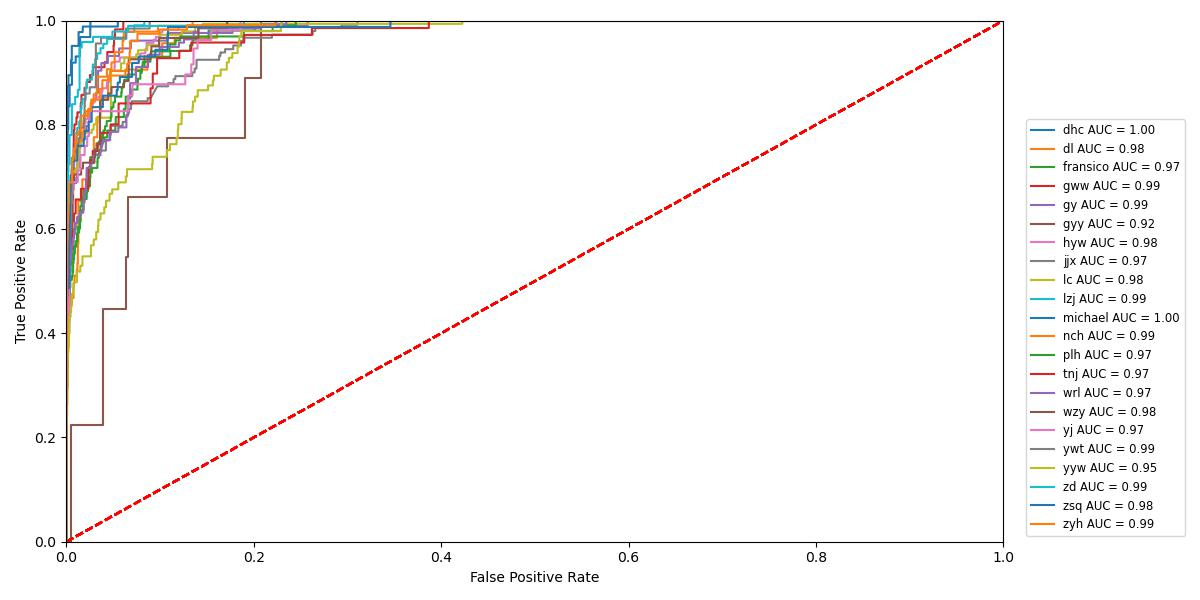
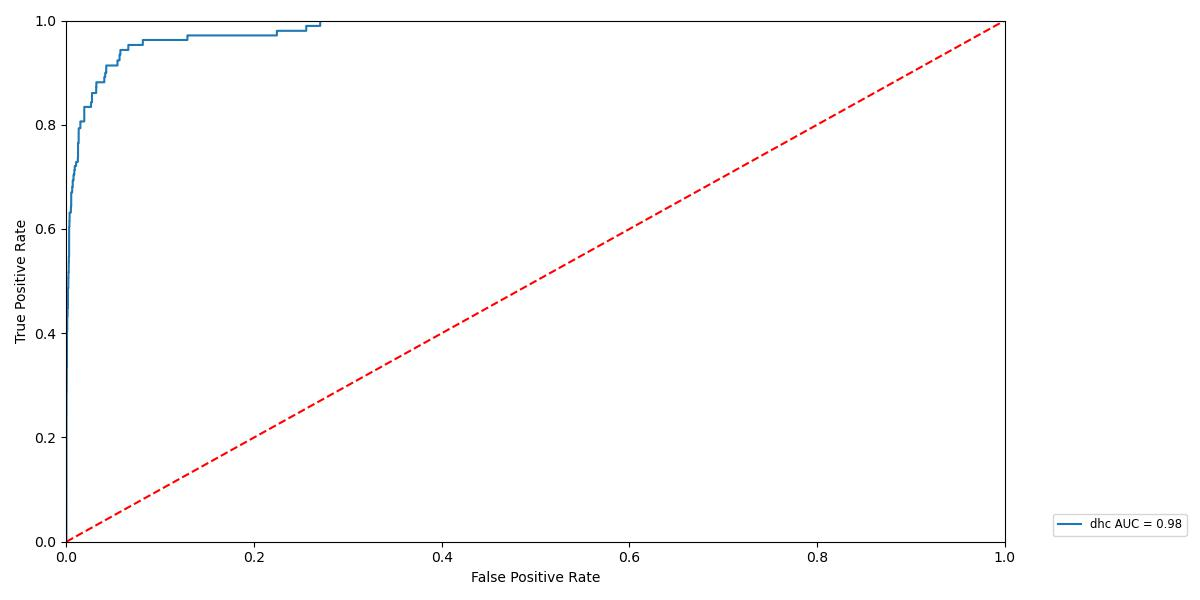
Update

diff --git a/run_lstm.py b/run_lstm.py
@@ -6,9 +6,11 @@ from matplotlib import pyplot as plt
 from random import random
 import argparse
 from sklearn.model_selection import train_test_split
+import random
 import tensorflow as tf
 from tensorflow.keras.metrics import AUC
 
+import keras
 from keras.models import Sequential
 from keras.layers import LSTM
 from keras.layers import SimpleRNN
@@ -30,12 +32,19 @@ if args.device == "cpu":
 
 data_path = "./merge"
 
-n_frames = 10
+n_frames = 5
 data_per_condition = 1200
 trials = 1
 
+test_user_num = 18
+
+test_user_list = [[i] for i in os.listdir(data_path)]
+test_user_list = [random.sample(os.listdir(data_path), test_user_num) for i in range(24)]
+
 Xs = {}
 ys = {}
+rXs = {}
+rys = {}
 # fea = ["emd_ani_sal", "labDelta", "area", "center_x", "center_y"]
 # fea = ["emd_ani_sal", "labDelta", "area"]
 fea = ["emd_ani_sal", "labDelta"]
@@ -66,25 +75,25 @@ for user in os.listdir(data_path):
                 temp_y.append(y[i])
                 t_x.append(X[i - n_frames: i])
                 t_y.append(y[i])
-        # df = pd.DataFrame({"img": temp_x, "label": temp_y})
-        # class_0 = df[df['label'] == 0]
-        # class_1 = df[df['label'] == 1]
-        # class_count_0, class_count_1 = df['label'].value_counts()
-        # class_0_resample = class_0.sample(data_per_condition, replace=True)
-        # class_1_resample = class_1.sample(data_per_condition, replace=True)
-        # temp.append(class_0_resample)
-        # temp.append(class_1_resample)
+        df = pd.DataFrame({"img": temp_x, "label": temp_y})
+        class_0 = df[df['label'] == 0]
+        class_1 = df[df['label'] == 1]
+        class_count_0, class_count_1 = df['label'].value_counts()
+        class_0_resample = class_0.sample(data_per_condition, replace=True)
+        class_1_resample = class_1.sample(data_per_condition, replace=True)
+        temp.append(class_0_resample)
+        temp.append(class_1_resample)
 
-    df = pd.DataFrame({"img": t_x, "label": t_y})
-    class_0 = df[df['label'] == 0]
-    class_1 = df[df['label'] == 1]
-    class_count_0, class_count_1 = df['label'].value_counts()
-    class_0_resample = class_0.sample(data_per_condition * 12, replace=True)
-    class_1_resample = class_1.sample(data_per_condition * 12, replace=True)
+    # df = pd.DataFrame({"img": t_x, "label": t_y})
+    # class_0 = df[df['label'] == 0]
+    # class_1 = df[df['label'] == 1]
+    # class_count_0, class_count_1 = df['label'].value_counts()
+    # class_0_resample = class_0.sample(data_per_condition * 12, replace=True)
+    # class_1_resample = class_1.sample(data_per_condition * 12, replace=True)
 
-    test = pd.concat([class_0_resample, class_1_resample], axis=0)
+    # test = pd.concat([class_0_resample, class_1_resample], axis=0)
     
-    # test = pd.concat(temp, axis=0)
+    test = pd.concat(temp, axis=0)
 
     X = test['img'].tolist()
     y = test['label'].tolist()
@@ -95,6 +104,15 @@ for user in os.listdir(data_path):
     Xs[user] = X
     ys[user] = y
 
+    # X = df['img'].tolist()
+    # y = df['label'].tolist()
+
+    # X = np.array(X)
+    # y = np.array(y)
+
+    # rXs[user] = X
+    # rys[user] = y
+
 def test_trials(test_user, trial_number):
     temp_x = []
     temp_y = []
@@ -104,50 +122,53 @@ def test_trials(test_user, trial_number):
     trial_cnt = 0
     last_y = 0
     train_set = []
-    for condition in os.listdir(os.path.join(data_path, test_user)):
-        temp_x_train = []
-        temp_y_train = []
-        trial_cnt = 0
-        last_y = 0
-        flag = False if trial_number == 0 else True
-        # print(user, condition)
-        df = pd.read_csv(os.path.join(data_path, test_user, condition))
-        # df = pd.read_csv("./data/{}/data_{}_{}_{}.csv".format(user, condition.split("_")[1], condition.split("_")[2], user))
-        idx = df["index"].tolist()
-        X = df[fea].values
-        # X = df["emd_ani_sal"].tolist()
-        # X = df["emd_ani_gaze"].tolist()
-        y = df["label"].tolist()
-
-        if len(X) == 0:
-            print(test_user, condition)
+    for user in os.listdir(data_path):
+        if user not in test_user:
             continue
+        for condition in os.listdir(os.path.join(data_path, user)):
+            temp_x_train = []
+            temp_y_train = []
+            trial_cnt = 0
+            last_y = 0
+            flag = False if trial_number == 0 else True
+            # print(user, condition)
+            df = pd.read_csv(os.path.join(data_path, user, condition))
+            # df = pd.read_csv("./data/{}/data_{}_{}_{}.csv".format(user, condition.split("_")[1], condition.split("_")[2], user))
+            idx = df["index"].tolist()
+            X = df[fea].values
+            # X = df["emd_ani_sal"].tolist()
+            # X = df["emd_ani_gaze"].tolist()
+            y = df["label"].tolist()
 
-        for i in range(n_frames, len(idx)):
-            if idx[i] - idx[i - n_frames] == n_frames:
-                if flag:
-                    temp_x_train.append(X[i - n_frames: i])
-                    temp_y_train.append(y[i])
-                else:
-                    temp_x.append(X[i - n_frames: i])
-                    temp_y.append(y[i])
-                if y[i] == 1 and last_y == 0:
-                    trial_cnt += 1
-                if trial_cnt == trial_number:
-                    flag = False
-                last_y = y[i]
-        
-        if len(temp_x_train) > 0:
-            df = pd.DataFrame({"img": temp_x_train, "label": temp_y_train})
-            class_0 = df[df['label'] == 0]
-            class_1 = df[df['label'] == 1]
-            class_count_0, class_count_1 = df['label'].value_counts()
+            if len(X) == 0:
+                print(user, condition)
+                continue
 
-            if len(class_0['img'].to_list()) * len(class_1['img'].to_list()) > 0:
-                class_0_resample = class_0.sample(int(data_per_condition / 1), replace=True)
-                class_1_resample = class_1.sample(int(data_per_condition / 1), replace=True)
-                train_set.append(class_0_resample)
-                train_set.append(class_1_resample)
+            for i in range(n_frames, len(idx)):
+                if idx[i] - idx[i - n_frames] == n_frames:
+                    if flag:
+                        temp_x_train.append(X[i - n_frames: i])
+                        temp_y_train.append(y[i])
+                    else:
+                        temp_x.append(X[i - n_frames: i])
+                        temp_y.append(y[i])
+                    if y[i] == 1 and last_y == 0:
+                        trial_cnt += 1
+                    if trial_cnt == trial_number:
+                        flag = False
+                    last_y = y[i]
+            
+            if len(temp_x_train) > 0:
+                df = pd.DataFrame({"img": temp_x_train, "label": temp_y_train})
+                class_0 = df[df['label'] == 0]
+                class_1 = df[df['label'] == 1]
+                class_count_0, class_count_1 = df['label'].value_counts()
+
+                if len(class_0['img'].to_list()) * len(class_1['img'].to_list()) > 0:
+                    class_0_resample = class_0.sample(int(data_per_condition / 1), replace=True)
+                    class_1_resample = class_1.sample(int(data_per_condition / 1), replace=True)
+                    train_set.append(class_0_resample)
+                    train_set.append(class_1_resample)
     
     if len(train_set) > 0:
         test = pd.concat(train_set, axis=0)
@@ -160,7 +181,7 @@ def test_trials(test_user, trial_number):
 if args.command == "train":
     fig = plt.figure(figsize=(12, 6))
     aucs = []
-    for test_user in os.listdir(data_path):
+    for test_user in test_user_list:
         # if os.path.isfile("./saved_model/{}_{}_{}.h5".format(test_user, args.activation, args.initial)):
         #     continue
         print(test_user)
@@ -169,7 +190,13 @@ if args.command == "train":
         X_test = []
         y_test = []
         for user in os.listdir(data_path):
-            if user != test_user and user in Xs.keys():
+            if user in test_user and user in Xs.keys():
+                pass
+                # X_test.extend(rXs[user])
+                # y_test.extend(rys[user])
+                # X_train.extend(Xs[user])
+                # y_train.extend(ys[user])
+            elif user in Xs.keys():
                 X_train.extend(Xs[user])
                 y_train.extend(ys[user])
         
@@ -183,8 +210,8 @@ if args.command == "train":
             X_train_temp, y_train_temp, X_test, y_test = test_trials(test_user, 0)
         elif args.initial == "add":
             X_train_temp, y_train_temp, X_test, y_test = test_trials(test_user, trials)
-        # X_train.extend(X_train_temp)
-        # y_train.extend(y_train_temp)
+        # X_train.extend(X_test)
+        # y_train.extend(y_test)
         # X_test = []
         # y_test = []
         # for i in range(len(Xs[test_user])):
@@ -197,15 +224,15 @@ if args.command == "train":
         
         X_train = np.array(X_train).reshape(-1, n_frames, len(fea))
         y_train = np.array(y_train).reshape(-1, 1, 1)
-        X_train_temp = np.array(X_train_temp).reshape(-1, n_frames, len(fea))
-        y_train_temp = np.array(y_train_temp).reshape(-1, 1, 1)
+        # X_train_temp = np.array(X_train_temp).reshape(-1, n_frames, len(fea))
+        # y_train_temp = np.array(y_train_temp).reshape(-1, 1, 1)
         X_test = np.array(X_test).reshape(-1, n_frames, len(fea))
         y_test = np.array(y_test).reshape(-1, 1, 1)
 
         print(X_train.shape)
         print(y_train.shape)
-        print(X_train_temp.shape)
-        print(y_train_temp.shape)
+        # print(X_train_temp.shape)
+        # print(y_train_temp.shape)
         print(X_test.shape)
         print(y_test.shape)
 
@@ -213,15 +240,17 @@ if args.command == "train":
         X_train, X_val, y_train, y_val = train_test_split(X_train, y_train, test_size=0.2)
 
         model = Sequential()
-        # model.add(Conv1D(filters=64, kernel_size=5, padding='same', activation=args.activation))
-        # model.add(MaxPooling1D(pool_size=4))
-        model.add(LSTM(64, return_sequences=True, input_shape=(X_train.shape[1], X_train.shape[2])))
+        model.add(Conv1D(filters=64, kernel_size=5, padding='same', activation=args.activation))
+        model.add(MaxPooling1D(pool_size=5))
+        model.add(LSTM(128, return_sequences=True, input_shape=(X_train.shape[1], X_train.shape[2])))
         model.add(Dropout(0.2))
         model.add(LSTM(32))
         model.add(Dropout(0.2))
-        model.add(Dense(1))
-        model.compile(optimizer='adam', loss='binary_crossentropy', metrics=["accuracy"])
-        model.fit(X_train, y_train, epochs=10, batch_size=64, validation_data=(X_val, y_val))
+        model.add(Dense(1, activation="sigmoid"))
+        # model.compile(optimizer='adam', loss='mean_squared_error', metrics=["accuracy", tf.keras.metrics.AUC()]) 
+        opt = keras.optimizers.Adam(1e-4)
+        model.compile(optimizer=opt, loss='binary_crossentropy', metrics=["accuracy", "AUC"])
+        model.fit(X_train, y_train, epochs=100, batch_size=128, validation_data=(X_val, y_val))
 
         y_pred = model.predict(X_test).ravel()
         y_test = y_test.flatten()
@@ -249,7 +278,7 @@ if args.command == "train":
         # plt.show()
         fig.suptitle("Average AUC = %0.2f" % np.mean(np.array(aucs)), fontsize=16)
         fig.tight_layout()
-        plt.savefig("./lstm_results/leave_{}_trials_out_balanced_{}_{}_new_data_merge_{}.jpg".format(trials, args.activation, args.initial, n_frames))
+        plt.savefig("./lstm_results/leave_{}_users_out_balanced_{}_{}_new_data_merge_{}.jpg".format(test_user_num, args.activation, args.initial, n_frames))
         # plt.show()
 
 if args.command == "test":
